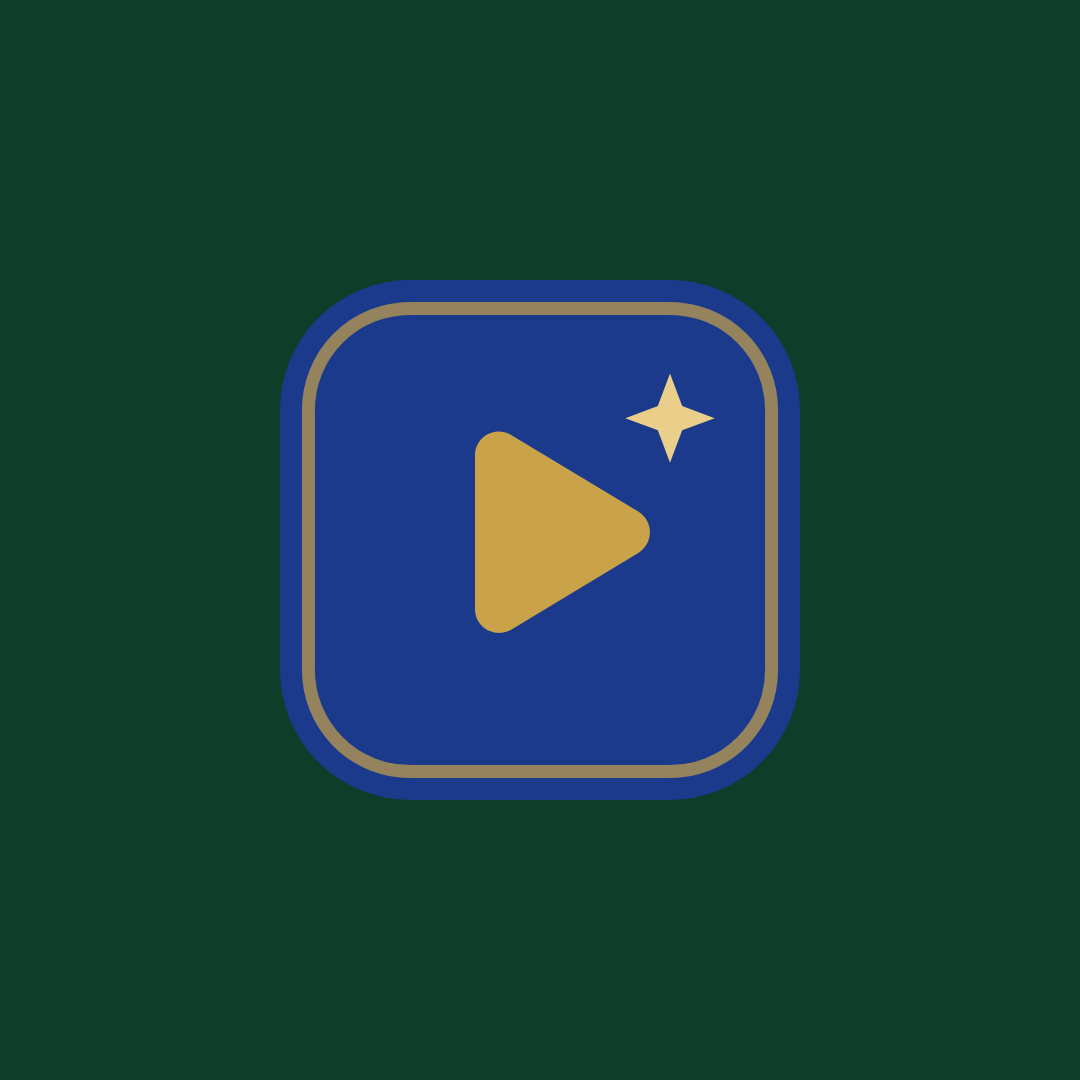
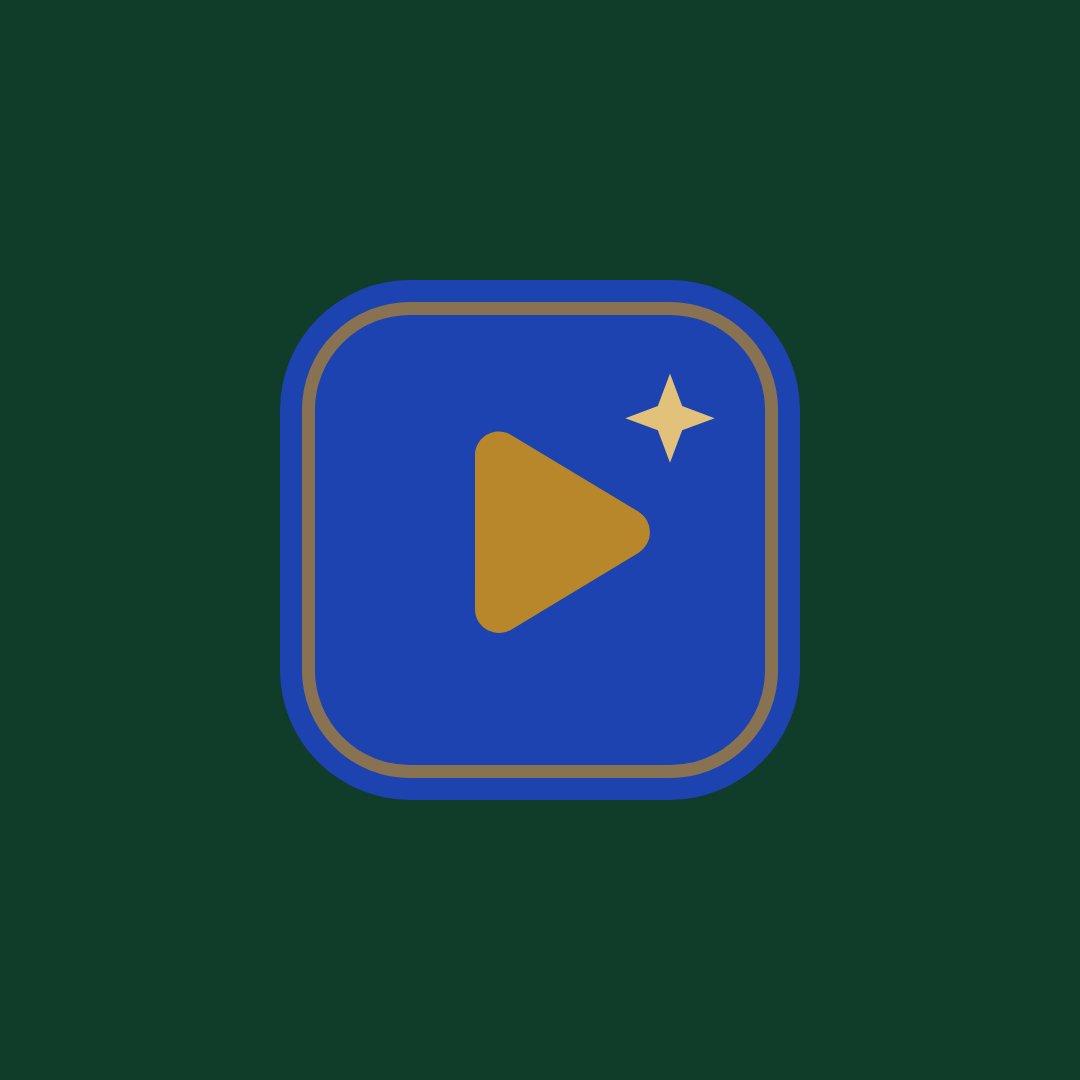
Switch theme to royal blue and deep gold; soften edge glow
- Remove the pastel layers; white cards with gold top edges
- Brighter royal blue and deeper gold, logo files updated
- Golden edge glow reduced by about half

Claude-Session: https://claude.ai/code/session_01M6UykiNYF9JAXw6us1xTvQ

Changed region(s): [[0.2444, 0.2444, 0.7639, 0.7639]]

diff --git a/styles.css b/styles.css
@@ -4,14 +4,14 @@
    ========================================================== */
 :root {
   /* Brand: royal blue + gold */
-  --primary: #1b3a8c;
-  --primary-dark: #122a6b;
-  --primary-soft: #eaf0fb;
-  --accent: #c9a24a;
-  --gold: #c9a24a;
-  --gold-light: #e9cf8a;
-  --gold-dark: #8a6a1f;
-  --gold-soft: #f7f0dc;
+  --primary: #1d43b0;
+  --primary-dark: #132e7d;
+  --primary-soft: #e9effb;
+  --accent: #b8862b;
+  --gold: #b8862b;
+  --gold-light: #e2c27a;
+  --gold-dark: #8a6418;
+  --gold-soft: #f6ecd6;
   --baby: #dcebfb;
   --baby-line: #bcd5f2;
   --wa: #25d366;
@@ -417,7 +417,7 @@ p { margin: 0 0 1em; }
 .promo-bar { background: #1b3a8c; color: #fff; text-align: center; font-size: .92rem; font-weight: 700; padding: 9px max(16px, env(safe-area-inset-right, 0px)) 9px max(16px, env(safe-area-inset-left, 0px)); display: flex; flex-wrap: wrap; justify-content: center; align-items: center; gap: 4px 12px; }
 .promo-bar b { color: #f0cf7a; }
 .promo-bar a { color: #1b3a8c; background: #f0cf7a; text-decoration: none; font-weight: 900; padding: 3px 12px; border-radius: 999px; white-space: nowrap; }
-.xmas-deal { position: relative; overflow: hidden; background: radial-gradient(700px 300px at 50% 0%, #2c55b0, #1b3a8c 70%); color: #fff; border-radius: var(--radius-lg); padding: 34px 22px; margin: 0 auto 34px; max-width: 760px; text-align: center; box-shadow: var(--shadow-lg); }
+.xmas-deal { position: relative; overflow: hidden; background: radial-gradient(700px 300px at 50% 0%, #2a55c9, #1b3a8c 70%); color: #fff; border-radius: var(--radius-lg); padding: 34px 22px; margin: 0 auto 34px; max-width: 760px; text-align: center; box-shadow: var(--shadow-lg); }
 .xmas-deal::before { content: ""; position: absolute; inset: 0 0 auto; height: 14px; background: repeating-linear-gradient(90deg, #ef476f 0 10px, transparent 10px 30px, #ffd166 30px 40px, transparent 40px 60px, #06d6a0 60px 70px, transparent 70px 90px); opacity: .9; }
 .xmas-eyebrow { color: #f0cf7a; font-weight: 900; text-transform: uppercase; letter-spacing: .12em; font-size: .85rem; margin: 6px 0 .4em; }
 .xmas-deal h2 { font-size: clamp(1.7rem, 5.5vw, 2.4rem); color: #fff; }
@@ -452,8 +452,8 @@ p { margin: 0 0 1em; }
 .hero { background: radial-gradient(1100px 480px at 85% -10%, var(--gold-soft), transparent 65%), radial-gradient(900px 500px at 0% 0%, var(--primary-soft), transparent 60%); }
 .hero-points li::before { color: var(--gold-dark); }
 
-.btn-primary { background: var(--primary); color: #fff; box-shadow: 0 10px 22px -12px rgba(27, 58, 140, .7); }
-.btn-primary:hover { background: #2a4fa8; }
+.btn-primary { background: var(--primary); color: #fff; box-shadow: 0 10px 22px -12px rgba(29, 67, 176, .7); }
+.btn-primary:hover { background: #2450c4; }
 .btn-outline { color: var(--primary); border-color: var(--primary); }
 .btn-outline:hover { background: var(--primary-soft); }
 
@@ -467,10 +467,10 @@ p { margin: 0 0 1em; }
 .mini-price:hover { border-color: var(--primary); }
 
 .tag, .tag.client { background: var(--primary); color: var(--gold-light); }
-.showcase { background: linear-gradient(160deg, #24489f, var(--primary-dark)); }
+.showcase { background: linear-gradient(160deg, #2450c4, var(--primary-dark)); }
 .showcase .eyebrow { color: var(--gold-light); }
 
-.cta-band { background: linear-gradient(160deg, #24489f, var(--primary-dark)); border: 1px solid rgba(201, 162, 74, .35); }
+.cta-band { background: linear-gradient(160deg, #2450c4, var(--primary-dark)); border: 1px solid rgba(184, 134, 43, .35); }
 .cta-band h2 { color: #fff; }
 .cta-band .btn-light { background: var(--gold); color: var(--primary-dark); }
 .cta-band .btn-light:hover { background: var(--gold-light); }
@@ -519,123 +519,6 @@ h1, h2, .section-title, .page-title { font-family: var(--serif); font-weight: 40
 @media (min-width: 760px) { .who-grid { grid-template-columns: repeat(3, minmax(0, 1fr)); } }
 
 
-/* ---------- Baby blue boxes ---------- */
-.service-card, .step, .reason, .about-points .card, .get-list li { background: var(--baby); border-color: var(--baby-line); box-shadow: none; }
-.service-card .icon-badge, .reason .icon-badge { background: #fff; }
-.service-card p, .step p, .reason p, .about-points .card p, .get-list li { color: #3d4a63; }
-.how .step { box-shadow: 0 8px 22px -16px rgba(27, 58, 140, .45); }
-
-/* ==========================================================
-   Pastel theme (navy text keeps everything readable)
-   ========================================================== */
-:root {
-  --p-blue: #dcebfb;
-  --p-blue-2: #bcd6f5;
-  --p-pink: #fde4ec;
-  --p-pink-2: #f6c3d4;
-  --p-mint: #dcf3e8;
-  --p-lav: #ece6fb;
-  --p-peach: #fde9dc;
-  --p-butter: #fdf3cf;
-  --navy: #1b2a52;
-  --ink: #1b2a52;
-  --ink-soft: #4a5576;
-  --line: #e4e6f0;
-  --rose: #a34d70;
-}
-body { color: var(--ink); }
-h1, h2, .section-title, .page-title, .amount, .mini-amount { color: var(--navy); }
-.eyebrow, .xmas-eyebrow { color: var(--rose); }
-.hl { color: var(--rose); }
-.hl::after { background: var(--p-pink-2); opacity: .7; }
-.wm-main { color: var(--navy); }
-
-/* section backgrounds */
-.hero { background: radial-gradient(900px 460px at 90% -10%, var(--p-pink), transparent 65%), radial-gradient(900px 520px at 0% 0%, var(--p-blue), transparent 60%), #fff; }
-.problem { background: var(--p-peach); }
-.how { background: var(--p-lav); }
-.page-hero { background: radial-gradient(900px 380px at 50% -20%, var(--p-blue), transparent 70%); }
-.site-footer { background: var(--p-blue); border-top-color: var(--p-blue-2); }
-
-/* buttons */
-.btn-primary, .header-cta { background: var(--p-blue-2); color: var(--navy); box-shadow: 0 10px 22px -14px rgba(27, 42, 82, .55); }
-.btn-primary:hover, .header-cta:hover { background: #a7c8f1; color: var(--navy); }
-.btn-outline { background: #fff; color: var(--navy); border-color: var(--p-blue-2); }
-.btn-outline:hover { background: var(--p-blue); }
-.mobile-nav a[aria-current="page"], .billing-toggle button[aria-pressed="true"] { background: var(--p-blue-2); border-color: var(--p-blue-2); color: var(--navy); }
-.main-nav a[aria-current="page"], .main-nav a:hover, .footer-nav a:hover { color: var(--rose); }
-
-/* pastel boxes, cycling colours */
-.card, .service-card, .step, .reason, .about-points .card, .get-list li, .who-card, .mini-price, .price-card { border-color: rgba(27, 42, 82, .08); box-shadow: 0 10px 26px -20px rgba(27, 42, 82, .5); }
-.problem-card { background: #fff; }
-.service-card:nth-child(4n+1), .step:nth-child(4n+1), .reason:nth-child(6n+1), .about-points .card:nth-child(3n+1) { background: var(--p-blue); }
-.service-card:nth-child(4n+2), .step:nth-child(4n+2), .reason:nth-child(6n+2), .about-points .card:nth-child(3n+2) { background: var(--p-mint); }
-.service-card:nth-child(4n+3), .step:nth-child(4n+3), .reason:nth-child(6n+3), .about-points .card:nth-child(3n+3) { background: var(--p-pink); }
-.service-card:nth-child(4n+4), .step:nth-child(4n+4), .reason:nth-child(6n+4) { background: var(--p-butter); }
-.reason:nth-child(6n+5) { background: var(--p-lav); }
-.reason:nth-child(6n+6) { background: var(--p-peach); }
-.how .step { box-shadow: 0 10px 26px -20px rgba(27, 42, 82, .5); }
-.get-list li:nth-child(odd) { background: var(--p-blue); }
-.get-list li:nth-child(even) { background: var(--p-mint); }
-.service-card p, .step p, .reason p, .about-points .card p, .get-list li { color: var(--ink-soft); }
-.icon-badge, .problem-card .icon-badge { background: #fff; }
-.problem-card .icon-badge { background: var(--p-peach); }
-.step-num { background: #fff; color: var(--navy); box-shadow: 0 0 0 3px var(--p-butter); }
-
-.who-card:nth-child(1) .who-body { background: var(--p-peach); }
-.who-card:nth-child(2) .who-body { background: var(--p-pink); }
-.who-card:nth-child(3) .who-body { background: var(--p-blue); }
-.who-card { background: #fff; }
-
-/* prices */
-.mini-price:nth-child(1), .price-card:nth-child(1) { background: var(--p-mint); }
-.mini-price:nth-child(2), .price-card:nth-child(2) { background: var(--p-pink); }
-.mini-price:nth-child(3), .price-card:nth-child(3) { background: var(--p-lav); }
-.price-card.featured, .mini-price.featured { border-color: var(--p-pink-2); }
-.badge { background: var(--p-butter); color: var(--navy); border: 1px solid #f1dc93; }
-.features li { border-top-color: rgba(27, 42, 82, .1); }
-.features li::before { background-color: #fff; }
-.price .was { color: var(--ink-soft); }
-.yearly-note { color: var(--rose); }
-.billing-toggle { background: #fff; }
-.billing-toggle .save { background: var(--p-butter); color: var(--navy); }
-
-/* tags, FAQ, table, contact */
-.tag, .tag.client { background: var(--p-lav); color: var(--navy); }
-.faq details { background: #fff; }
-.faq summary::after { background: var(--p-pink); color: var(--navy); }
-.compare .us { background: var(--p-blue); color: var(--navy); }
-.compare thead .us { background: var(--p-blue-2); color: var(--navy); }
-.compare thead th { background: var(--p-lav); }
-.cl-icon { background: var(--p-butter); }
-.copy-btn { background: var(--p-butter); border-color: #f1dc93; color: var(--navy); }
-.field input, .field textarea { background: #fbfbfe; }
-.field input:focus, .field textarea:focus { border-color: var(--p-blue-2); }
-
-/* formerly dark areas */
-.showcase { background: linear-gradient(150deg, var(--p-lav), var(--p-blue)); color: var(--ink); }
-.showcase h3 { color: var(--navy); }
-.showcase p, .showcase ul { color: var(--ink-soft); }
-.showcase .eyebrow { color: var(--rose); }
-.cta-band { background: linear-gradient(135deg, var(--p-blue), var(--p-lav) 55%, var(--p-pink)); color: var(--ink); border: 0; }
-.cta-band h2 { color: var(--navy); }
-.cta-band p { color: var(--ink-soft); }
-.cta-band .btn-light { background: #fff; color: var(--navy); }
-.cta-band .btn-light:hover { background: var(--p-butter); }
-.cta-band .btn-ghost { background: transparent; color: var(--navy); border-color: rgba(27, 42, 82, .35); }
-.promo-bar { background: var(--p-butter); color: var(--navy); }
-.promo-bar b { color: var(--rose); }
-.promo-bar a { background: var(--p-pink-2); color: var(--navy); }
-.xmas-deal { background: linear-gradient(160deg, var(--p-mint), #eaf7f0); color: var(--ink); box-shadow: 0 18px 40px -26px rgba(27, 42, 82, .5); }
-.xmas-deal h2 { color: var(--navy); }
-.xmas-deal p { color: var(--ink-soft); }
-.xmas-prices li { background: #fff; border-color: rgba(27, 42, 82, .1); }
-.xmas-prices s { color: #8a91a8; }
-.xmas-prices b { color: var(--navy); }
-.btn-gold { background: var(--p-pink-2); color: var(--navy); }
-.btn-gold:hover { background: #f3b2c7; }
-:focus-visible { outline-color: var(--p-pink-2); }
-
 /* ---------- Soft golden glow around the page edges ---------- */
 body::after {
   content: "";
@@ -643,48 +526,20 @@ body::after {
   inset: 0;
   pointer-events: none;
   z-index: 70;
-  box-shadow: inset 0 0 70px 6px rgba(232, 192, 96, .22), inset 0 0 18px rgba(240, 207, 122, .26);
+  box-shadow: inset 0 0 70px 6px rgba(214, 170, 80, .12), inset 0 0 14px rgba(226, 194, 122, .14);
 }
 @media (min-width: 760px) {
-  body::after { box-shadow: inset 0 0 120px 12px rgba(232, 192, 96, .21), inset 0 0 24px rgba(240, 207, 122, .24); }
+  body::after { box-shadow: inset 0 0 100px 8px rgba(214, 170, 80, .11), inset 0 0 20px rgba(226, 194, 122, .13); }
 }
 @media print { body::after { display: none; } }
 
-/* ==========================================================
-   Two pastels only: baby blue + pastel gold
-   ========================================================== */
-:root {
-  --p-blue: #dcebfb;      /* baby blue */
-  --p-blue-2: #bcd6f5;    /* deeper baby blue (buttons) */
-  --p-gold: #fbefc8;      /* pastel gold */
-  --p-gold-2: #f2dc9a;    /* deeper pastel gold */
-  --p-pink: var(--p-gold);
-  --p-pink-2: var(--p-gold-2);
-  --p-butter: var(--p-gold);
-  --p-mint: #e8f2fd;
-  --p-lav: #eef5fe;
-  --p-peach: #fdf6df;
-  --rose: #8a6a1f;
-}
-/* alternate blue / gold boxes */
-.service-card:nth-child(odd), .step:nth-child(odd), .reason:nth-child(odd), .about-points .card:nth-child(odd), .get-list li:nth-child(odd) { background: var(--p-blue); }
-.service-card:nth-child(even), .step:nth-child(even), .reason:nth-child(even), .about-points .card:nth-child(even), .get-list li:nth-child(even) { background: var(--p-gold); }
-.who-card:nth-child(1) .who-body, .who-card:nth-child(3) .who-body { background: var(--p-blue); }
-.who-card:nth-child(2) .who-body { background: var(--p-gold); }
-.mini-price:nth-child(1), .price-card:nth-child(1), .mini-price:nth-child(3), .price-card:nth-child(3) { background: var(--p-blue); }
-.mini-price:nth-child(2), .price-card:nth-child(2) { background: var(--p-gold); }
-.problem { background: var(--p-peach); }
-.how { background: var(--p-lav); }
-.hero { background: radial-gradient(900px 460px at 90% -10%, var(--p-gold), transparent 65%), radial-gradient(900px 520px at 0% 0%, var(--p-blue), transparent 60%), #fff; }
-.showcase { background: linear-gradient(150deg, var(--p-blue), var(--p-mint)); }
-.cta-band { background: linear-gradient(135deg, var(--p-blue), var(--p-mint) 55%, var(--p-gold)); }
-.xmas-deal { background: linear-gradient(160deg, var(--p-gold), var(--p-peach)); }
-.compare thead th { background: var(--p-peach); }
-.tag, .tag.client { background: var(--p-gold); }
-.badge, .copy-btn { border-color: var(--p-gold-2); }
 
-/* theme colours only: WhatsApp buttons and Christmas lights */
-.wa-float, .wa-float::before { background: var(--p-blue-2); color: var(--navy); }
-.wa-float { box-shadow: 0 10px 25px -8px rgba(27, 42, 82, .45); }
-.cl-icon.wa { background: var(--p-blue-2); color: var(--navy); }
-.xmas-deal::before { background: repeating-linear-gradient(90deg, var(--p-blue-2) 0 10px, transparent 10px 30px, var(--p-gold-2) 30px 40px, transparent 40px 60px); }
+/* ---------- Royal blue + deep gold details ---------- */
+.service-card .icon-badge, .reason .icon-badge, .icon-badge { background: var(--gold-soft); }
+.problem-card .icon-badge { background: var(--primary-soft); }
+.service-card, .reason, .step, .about-points .card { border-top: 3px solid var(--gold); }
+.price-card.featured { border-color: var(--gold); box-shadow: 0 24px 50px -24px rgba(29, 67, 176, .45); }
+.wa-float, .wa-float::before { background: var(--primary); color: #fff; }
+.wa-float { box-shadow: 0 0 0 3px var(--gold-light), 0 12px 26px -8px rgba(29, 67, 176, .55); }
+.cl-icon.wa { background: var(--primary); color: #fff; }
+.xmas-deal::before { background: repeating-linear-gradient(90deg, var(--gold-light) 0 10px, transparent 10px 30px, #ffffff 30px 40px, transparent 40px 60px); }

diff --git a/index.html b/index.html
@@ -5,7 +5,7 @@
   <meta name="viewport" content="width=device-width, initial-scale=1">
   <title>Fresh Ads Studio | Monthly Ads &amp; Video Content for Small Businesses in South Africa</title>
   <meta name="description" content="Fresh Ads Studio creates professional short-form videos and social media ads for small businesses across South Africa, every month. From R500 a month. No agency, no long contracts.">
-  <meta name="theme-color" content="#dcebfb">
+  <meta name="theme-color" content="#1d43b0">
   <link rel="icon" href="assets/favicon.svg" type="image/svg+xml">
 
   <meta property="og:type" content="website">

diff --git a/contact.html b/contact.html
@@ -5,7 +5,7 @@
   <meta name="viewport" content="width=device-width, initial-scale=1">
   <title>About &amp; Contact | Fresh Ads Studio</title>
   <meta name="description" content="About Fresh Ads Studio, a one-person studio making short-form videos and social media ads for small businesses in South Africa. Contact me on WhatsApp 071 330 7822 or by email.">
-  <meta name="theme-color" content="#dcebfb">
+  <meta name="theme-color" content="#1d43b0">
   <link rel="icon" href="assets/favicon.svg" type="image/svg+xml">
 
   <meta property="og:type" content="website">

diff --git a/why.html b/why.html
@@ -5,7 +5,7 @@
   <meta name="viewport" content="width=device-width, initial-scale=1">
   <title>Why Us | Fresh Ads Studio</title>
   <meta name="description" content="Why small businesses choose Fresh Ads Studio: fresh videos every month, made for phones, from R500 a month, with no set-up fees, no long contracts and one person you deal with directly.">
-  <meta name="theme-color" content="#dcebfb">
+  <meta name="theme-color" content="#1d43b0">
   <link rel="icon" href="assets/favicon.svg" type="image/svg+xml">
 
   <meta property="og:type" content="website">

diff --git a/prices.html b/prices.html
@@ -5,7 +5,7 @@
   <meta name="viewport" content="width=device-width, initial-scale=1">
   <title>Prices | Fresh Ads Studio</title>
   <meta name="description" content="Fresh Ads Studio packages: Starter R500, Plus R750 and Premium R1 000 a month for short-form videos and social media ads. No set-up fees, no long contracts.">
-  <meta name="theme-color" content="#dcebfb">
+  <meta name="theme-color" content="#1d43b0">
   <link rel="icon" href="assets/favicon.svg" type="image/svg+xml">
 
   <meta property="og:type" content="website">

diff --git a/work.html b/work.html
@@ -5,7 +5,7 @@
   <meta name="viewport" content="width=device-width, initial-scale=1">
   <title>My Work | Fresh Ads Studio</title>
   <meta name="description" content="Social media videos made by Fresh Ads Studio for It's All Accounting: myth vs fact posts, money tips, seasonal greetings and tax deadline reminders.">
-  <meta name="theme-color" content="#dcebfb">
+  <meta name="theme-color" content="#1d43b0">
   <link rel="icon" href="assets/favicon.svg" type="image/svg+xml">
 
   <meta property="og:type" content="website">
